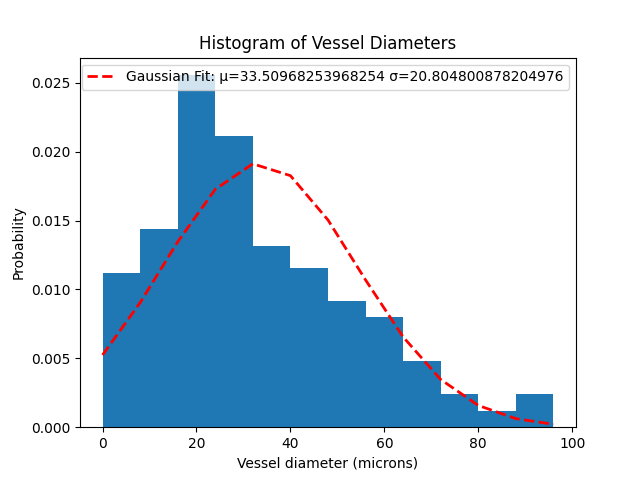
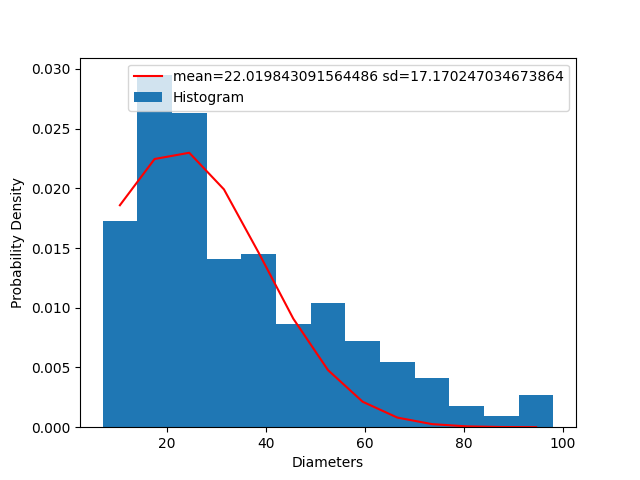
fix gaussian fits

diff --git a/data-analysis/src/visualization.py b/data-analysis/src/visualization.py
@@ -4,13 +4,16 @@ Module for data analysis (visualization).
 from typing import List
 
 import numpy as np
+from scipy.optimize import curve_fit
 
 from measurement import Measurement
 from diameter_measurement import DiameterMeasurement, filter_diameter_measurements
 from branch_measurement import BranchMeasurement
 from file_utils import save_figure
 import matplotlib.pyplot as plt
-from scipy.stats import norm
+from scipy.stats import poisson
+from scipy.stats import norm, binom
+from scipy.optimize import curve_fit
 
 HISTOGRAM_BIN_WIDTH = np.sqrt(2) + 0.0000001
 MAX_DIAMETER = 100  # in microns
@@ -73,20 +76,35 @@ def generate_histogram(measurements: List[DiameterMeasurement], output_folder_pa
     """
     diameters = filter_diameter_measurements(measurements, MAX_DIAMETER, pixel_measurements)
 
-    # Histogram
-    bins_start = 0
-    bins_end = int(np.ceil(max(diameters)))
-    bins_step = int(np.ceil(min(diameters)))
-    bins = [i for i in range(bins_start, bins_end, bins_step)]
-    plt.hist(diameters, density=True, bins=bins)
-    plt.title('Histogram of Vessel Diameters')
-    plt.ylabel('Probability')
-    plt.xlabel(f'Vessel diameter {"(pixels)" if pixel_measurements else "(microns)"}')
+    bin_width = int(min(diameters))
+    hist, bin_edges = np.histogram(diameters, bins=np.arange(min(diameters), max(diameters) + bin_width, bin_width), density=True)
 
-    # Gaussian Fit
-    (mu, sigma) = norm.fit(diameters)
-    y = norm.pdf(bins, mu, sigma)
-    plt.plot(bins, y, 'r--', linewidth=2, label=f'Gaussian Fit: μ={mu} σ={sigma}')
+    # Calculate bin centers
+    bin_centers = 0.5 * (bin_edges[:-1] + bin_edges[1:])
+
+    # Define the normal distribution function
+    def normal_distribution(x, mu, sigma):
+        return norm.pdf(x, mu, sigma)
+
+    # Fit the normal distribution using curve_fit
+    # Initial guess for parameters (you may need to adjust this based on your data)
+    initial_params = [np.mean(diameters), np.std(diameters)]
+
+    # Use curve_fit to find the best-fit parameters
+    params, covariance = curve_fit(normal_distribution, bin_centers, hist, p0=initial_params)
+
+    # Extract the fitted parameters
+    mu_fit, sigma_fit = params
+
+    # Generate the fitted normal distribution
+    fitted_distribution = normal_distribution(bin_centers, mu_fit, sigma_fit)
+
+    # Plot the histogram and the fitted distribution
+    plt.bar(bin_centers, hist, width=np.diff(bin_edges), label='Histogram')
+    plt.plot(bin_centers, fitted_distribution, 'r-', label=f'mean={mu_fit} sd={sigma_fit}')
+
+    plt.xlabel('Diameters')
+    plt.ylabel('Probability Density')
     plt.legend()
 
     save_path = output_folder_path + f'/{file_name}-hist.png'
